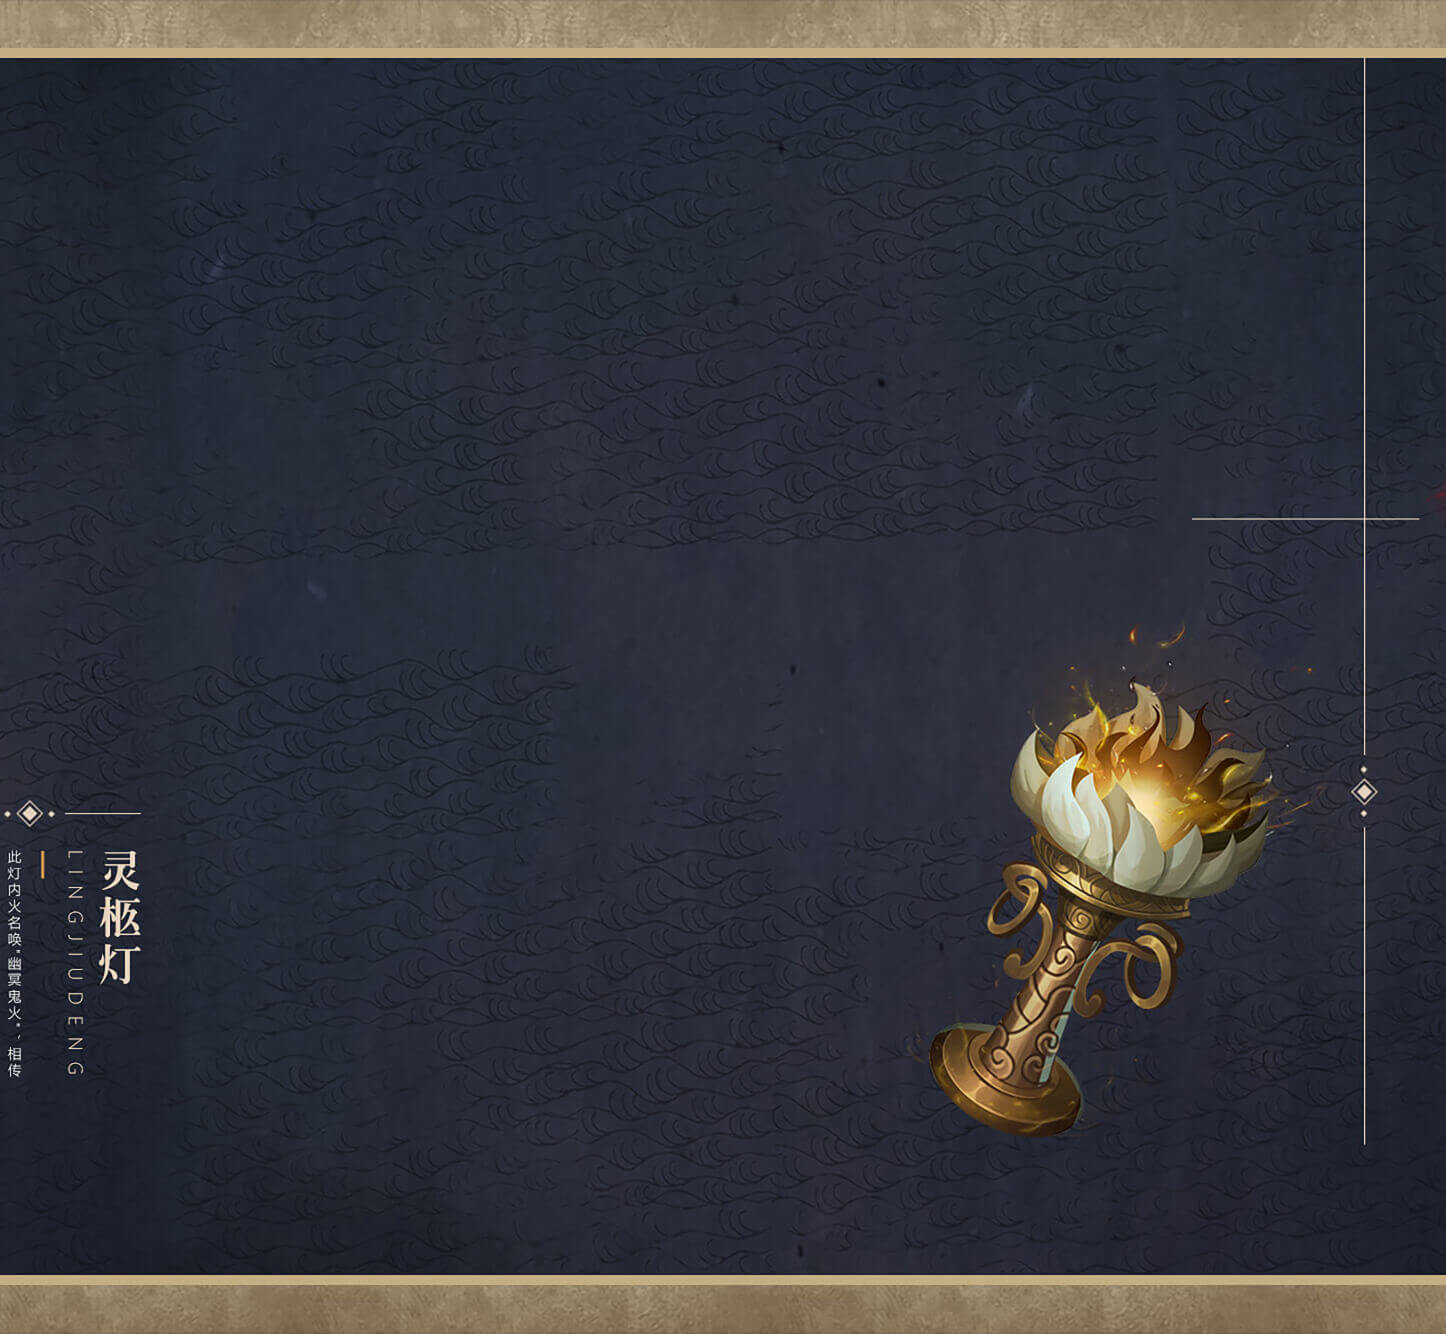
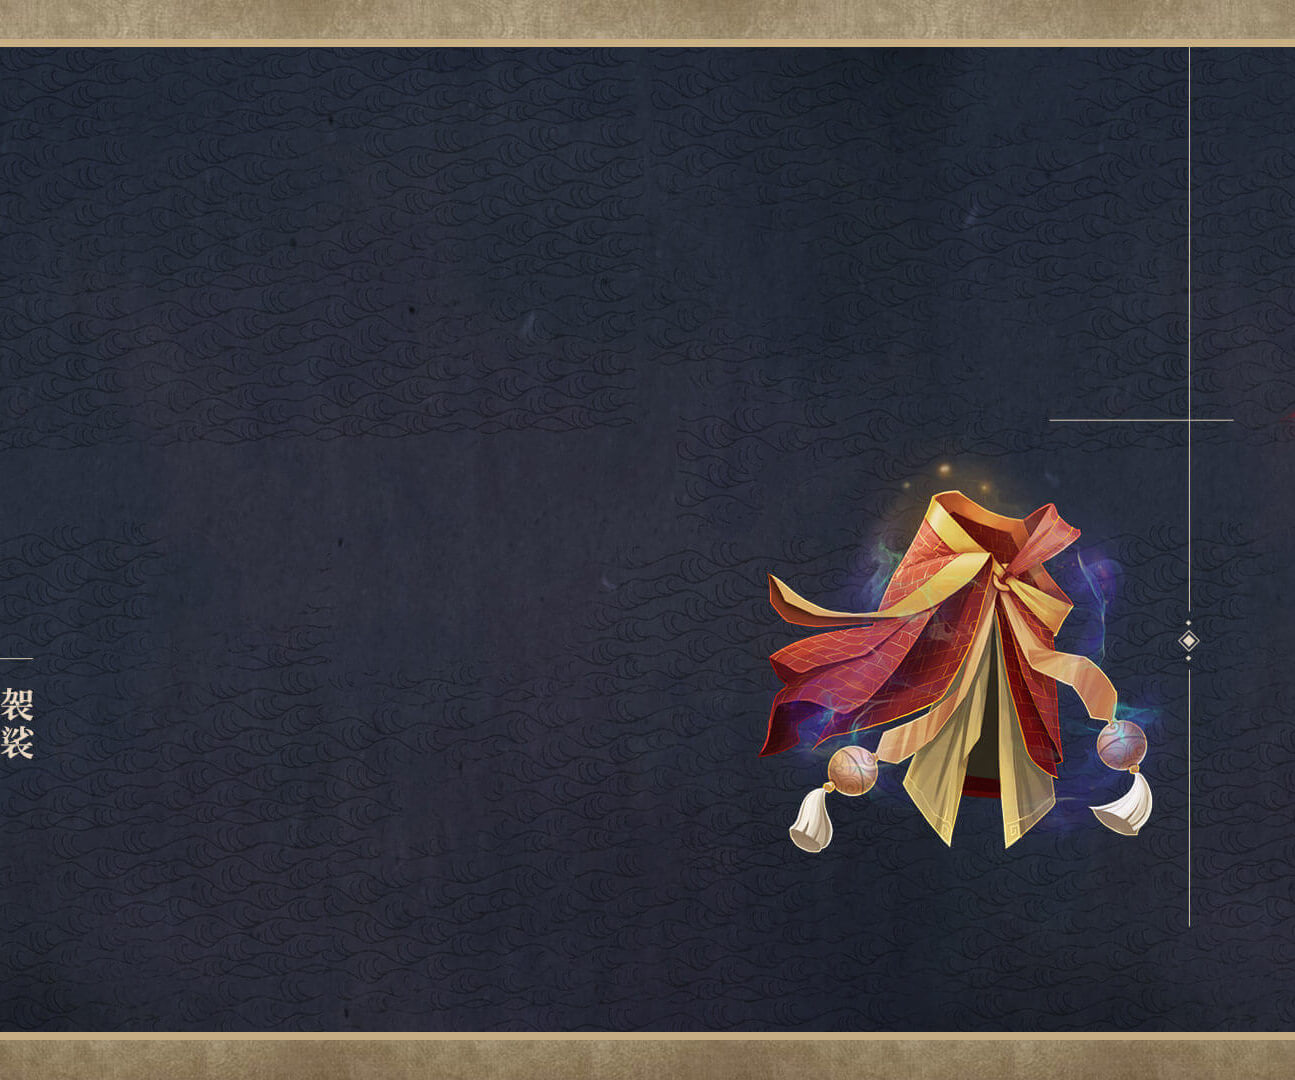
修改武器库

Changed region(s): [[0.5869, 0.4278, 0.9575, 0.8556], [0.0, 0.5806, 0.0927, 0.7639]]

diff --git a/desktop/src/page/pcindex.html b/desktop/src/page/pcindex.html
@@ -267,46 +267,32 @@
             <div class="swiper-container swiper-container-v" id="swiper1">
               <div class="swiper-wrapper">
                 <div class="swiper-slide" style="width: fit-content;">
-                  <img src="<%= require('../assets/img/scroll1.jpg') %>" class="scroll-box" />
+                  <img src="<%= require('../assets/img/hscroll1.jpg') %>" class="scroll-box" />
                   <img src="http://material-mhtsdk.jingmakeji.top/2020-08-13/6699613236997791744.gif" class="gif-box gif-box1" />
                 </div>
                 <div class="swiper-slide" style="width: fit-content;">
-                  <img src="<%= require('../assets/img/scroll2.jpg') %>" class="scroll-box"/>
+                  <img src="<%= require('../assets/img/hscroll2.jpg') %>" class="scroll-box"/>
+                  <img src="http://material-mhtsdk.jingmakeji.top/2020-08-17/6700952274354708480.gif" class="gif-box gif-box2" />
                 </div>
                 <div class="swiper-slide" style="width: fit-content;">
-                  <img src="<%= require('../assets/img/scroll3.jpg') %>" class="scroll-box" />
+                  <img src="<%= require('../assets/img/hscroll3.jpg') %>" class="scroll-box" />
                   <img src="http://material-mhtsdk.jingmakeji.top/2020-08-13/6699613605454815232.gif" class="gif-box gif-box3" />
                 </div>
                 <div class="swiper-slide" style="width: fit-content;">
-                  <img src="<%= require('../assets/img/scroll4.jpg') %>" class="scroll-box"/>
-                  <img src="http://material-mhtsdk.jingmakeji.top/2020-08-13/6699613770085441536.gif" class="gif-box gif-box4" />
+                  <img src="<%= require('../assets/img/hscroll4.jpg') %>" class="scroll-box"/>
+                  <img src="http://material-mhtsdk.jingmakeji.top/2020-08-17/6700952269468344320.gif" class="gif-box gif-box4" />
                 </div>
                 <div class="swiper-slide" style="width: fit-content;">
-                  <img src="<%= require('../assets/img/scroll5.jpg') %>" class="scroll-box"/>
+                  <img src="<%= require('../assets/img/hscroll5.jpg') %>" class="scroll-box"/>
                  
                   <img src="http://material-mhtsdk.jingmakeji.top/2020-08-13/6699614050650824704.gif" class="gif-box gif-box5" />
                 </div>
                 <div class="swiper-slide" style="width: fit-content;">
-                  <img src="<%= require('../assets/img/scroll6.jpg') %>" class="scroll-box"/>
-                  <img src="http://material-mhtsdk.jingmakeji.top/2020-08-13/6699614264698740736.gif" class="gif-box gif-box6" />
+                  <img src="<%= require('../assets/img/hscroll6.jpg') %>" class="scroll-box"/>
+                  <img src="http://material-mhtsdk.jingmakeji.top/2020-08-17/6700952272953810944.gif" class="gif-box gif-box6" />
                 </div>
                 <div class="swiper-slide" style="width: fit-content;">
-                  <img src="<%= require('../assets/img/scroll7.jpg') %>" class="scroll-box"/>
-                </div>
-                <div class="swiper-slide" style="width: fit-content;">
-                  <img src="<%= require('../assets/img/scroll8.jpg') %>" class="scroll-box"/>
-              
-                  <img src="http://material-mhtsdk.jingmakeji.top/2020-08-13/6699614523386634240.gif" class="gif-box gif-box8" />
-                </div>
-                <div class="swiper-slide" style="width: fit-content;">
-                  <img src="<%= require('../assets/img/scroll9.jpg') %>" class="scroll-box"/>
-
-                  <img src="http://material-mhtsdk.jingmakeji.top/2020-08-13/6699614558333575168.gif" class="gif-box gif-box9" />
-                </div>
-                <div class="swiper-slide" style="width: fit-content;">
-                  <img src="<%= require('../assets/img/scroll10.jpg') %>" class="scroll-box"/>
-                  
-                  <img src="http://material-mhtsdk.jingmakeji.top/2020-08-13/6699614598028468224.gif" class="gif-box gif-box10" />
+                  <img src="<%= require('../assets/img/hscroll7.jpg') %>" class="scroll-box"/>
                 </div>
               </div>
             </div>

diff --git a/desktop/src/page/h5index.html b/desktop/src/page/h5index.html
@@ -244,7 +244,6 @@
                 </div>
                 <div class="swiper-slide" style="width: fit-content;">
                   <img src="<%= require('../assets/img/hscroll5.jpg') %>" class="scroll-box"/>
-                 
                   <img src="http://material-mhtsdk.jingmakeji.top/2020-08-13/6699614050650824704.gif" class="gif-box gif-box5" />
                 </div>
                 <div class="swiper-slide" style="width: fit-content;">
@@ -254,7 +253,7 @@
                 <div class="swiper-slide" style="width: fit-content;">
                   <img src="<%= require('../assets/img/hscroll7.jpg') %>" class="scroll-box"/>
                 </div>
-                <div class="swiper-slide" style="width: fit-content;">
+                <!-- <div class="swiper-slide" style="width: fit-content;">
                   <img src="<%= require('../assets/img/hscroll8.jpg') %>" class="scroll-box"/>
                   <img src="http://material-mhtsdk.jingmakeji.top/2020-08-13/6699614523386634240.gif" class="gif-box gif-box8" />
                 </div>
@@ -267,7 +266,7 @@
                   <img src="<%= require('../assets/img/hscroll10.jpg') %>" class="scroll-box"/>
                   
                   <img src="http://material-mhtsdk.jingmakeji.top/2020-08-13/6699614598028468224.gif" class="gif-box gif-box10" />
-                </div>
+                </div> -->
               </div>
             </div>
           </div>

diff --git a/desktop/src/js/h5index.js b/desktop/src/js/h5index.js
@@ -214,15 +214,19 @@ $(function() {
 
   function createHeroInfor(index) {
     heroHidden();
-    // $("#herotype").attr("src", heroData[index].type);
-    // $(".hero-name-txt").text(heroData[index].name);
-    // $(".introduce").text(heroData[index].introduce);
+    let heroGalleryImg = $(".hero-gallery-item img")
+    for (let i = 0; i < heroGalleryImg.length; i++) {
+      if (i === index) {
+        heroGalleryImg[i].style = ""
+      } else {
+        heroGalleryImg[i].style = "filter: contrast(50%)"
+      }
+    }
     heroDispaly(heroData[index]);
   };
 
   // 英雄显示
   function heroDispaly(data) {
-    // $(".hero-js").addClass("");
     let heroStr = '<div class="hero-js hero-js-move">'
       + '<div class="hero-name">'
       + '<img src="'+ data.type +'" id="herotype"/>'

diff --git a/desktop/src/js/pcindex.ts b/desktop/src/js/pcindex.ts
@@ -268,6 +268,15 @@ function createHeroInfor(index:number) {
   (document.querySelector(".hero-name .introduce") as HTMLElement).innerHTML = heroData[index]["introduce"];
   let herotype:any = document.getElementById("herotype");
   let heroImg:any = document.getElementById("hero-img");
+  let herogalleryItem:any = document.querySelectorAll(".hero-gallery-item img")
+  for (let i = 0; i < herogalleryItem.length; i++) {
+    if (i === index) {
+      herogalleryItem[i].style = ""
+    } else {
+      herogalleryItem[i].style = "filter: contrast(50%)"
+    }
+  }
+  console.log(herogalleryItem)
   herotype.src = heroData[index].type;
   heroImg.src = heroData[index].img
   heroImg.className = "";

diff --git a/desktop/src/scss/pcindex.scss b/desktop/src/scss/pcindex.scss
@@ -630,6 +630,7 @@
       height: 100px;
       padding: 8px;
       box-sizing: border-box;
+      position: relative;
       img {
         height: 100%;
         display: block;
@@ -639,6 +640,7 @@
         border:2px solid blue;
       }
     }
+    
   }
 }
 .page4 {
@@ -661,17 +663,20 @@
       .gif-box1 {
         left: 20%;
       }
+      .gif-box2 {
+        left: 24%;
+      }
       .gif-box3 {
         left: 5%;
       }
       .gif-box4 {
-        left: 33%;
+        left: 3%;
       }
       .gif-box5 {
         left: 20%;
       }
       .gif-box6 {
-        left: -18%;
+        left: -6%;
       }
       .gif-box8 {
         left: 20%;
